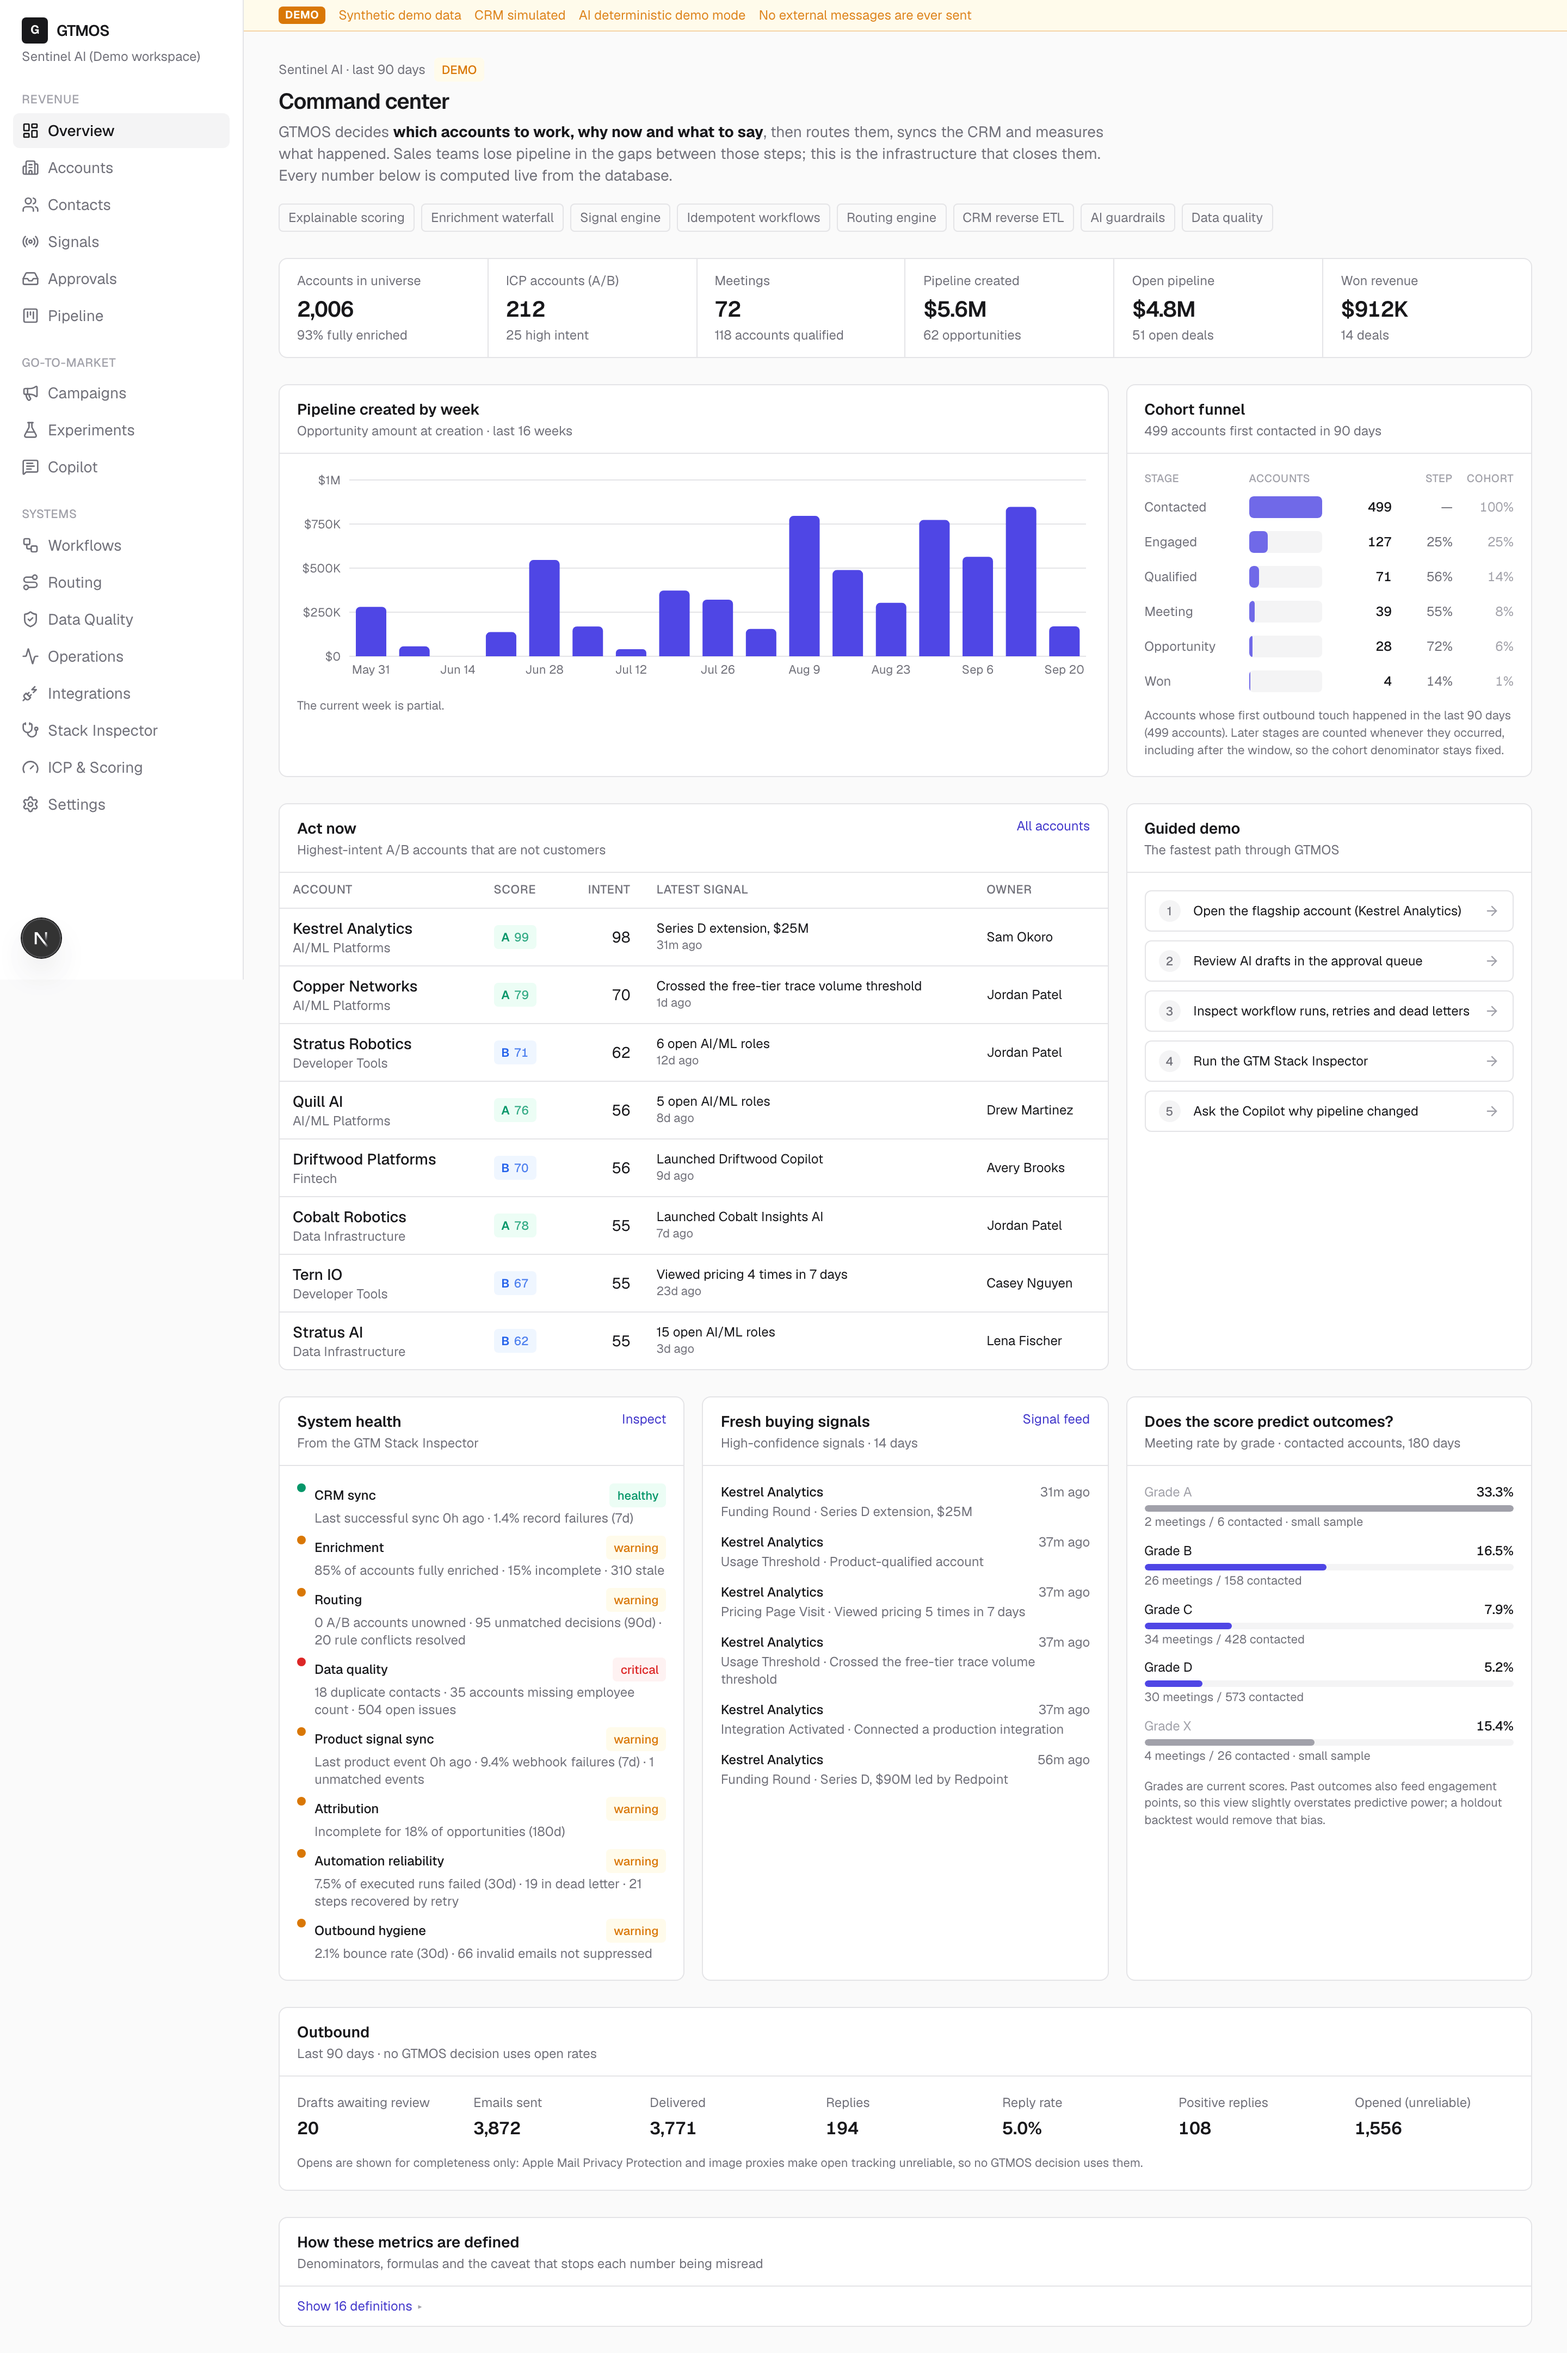
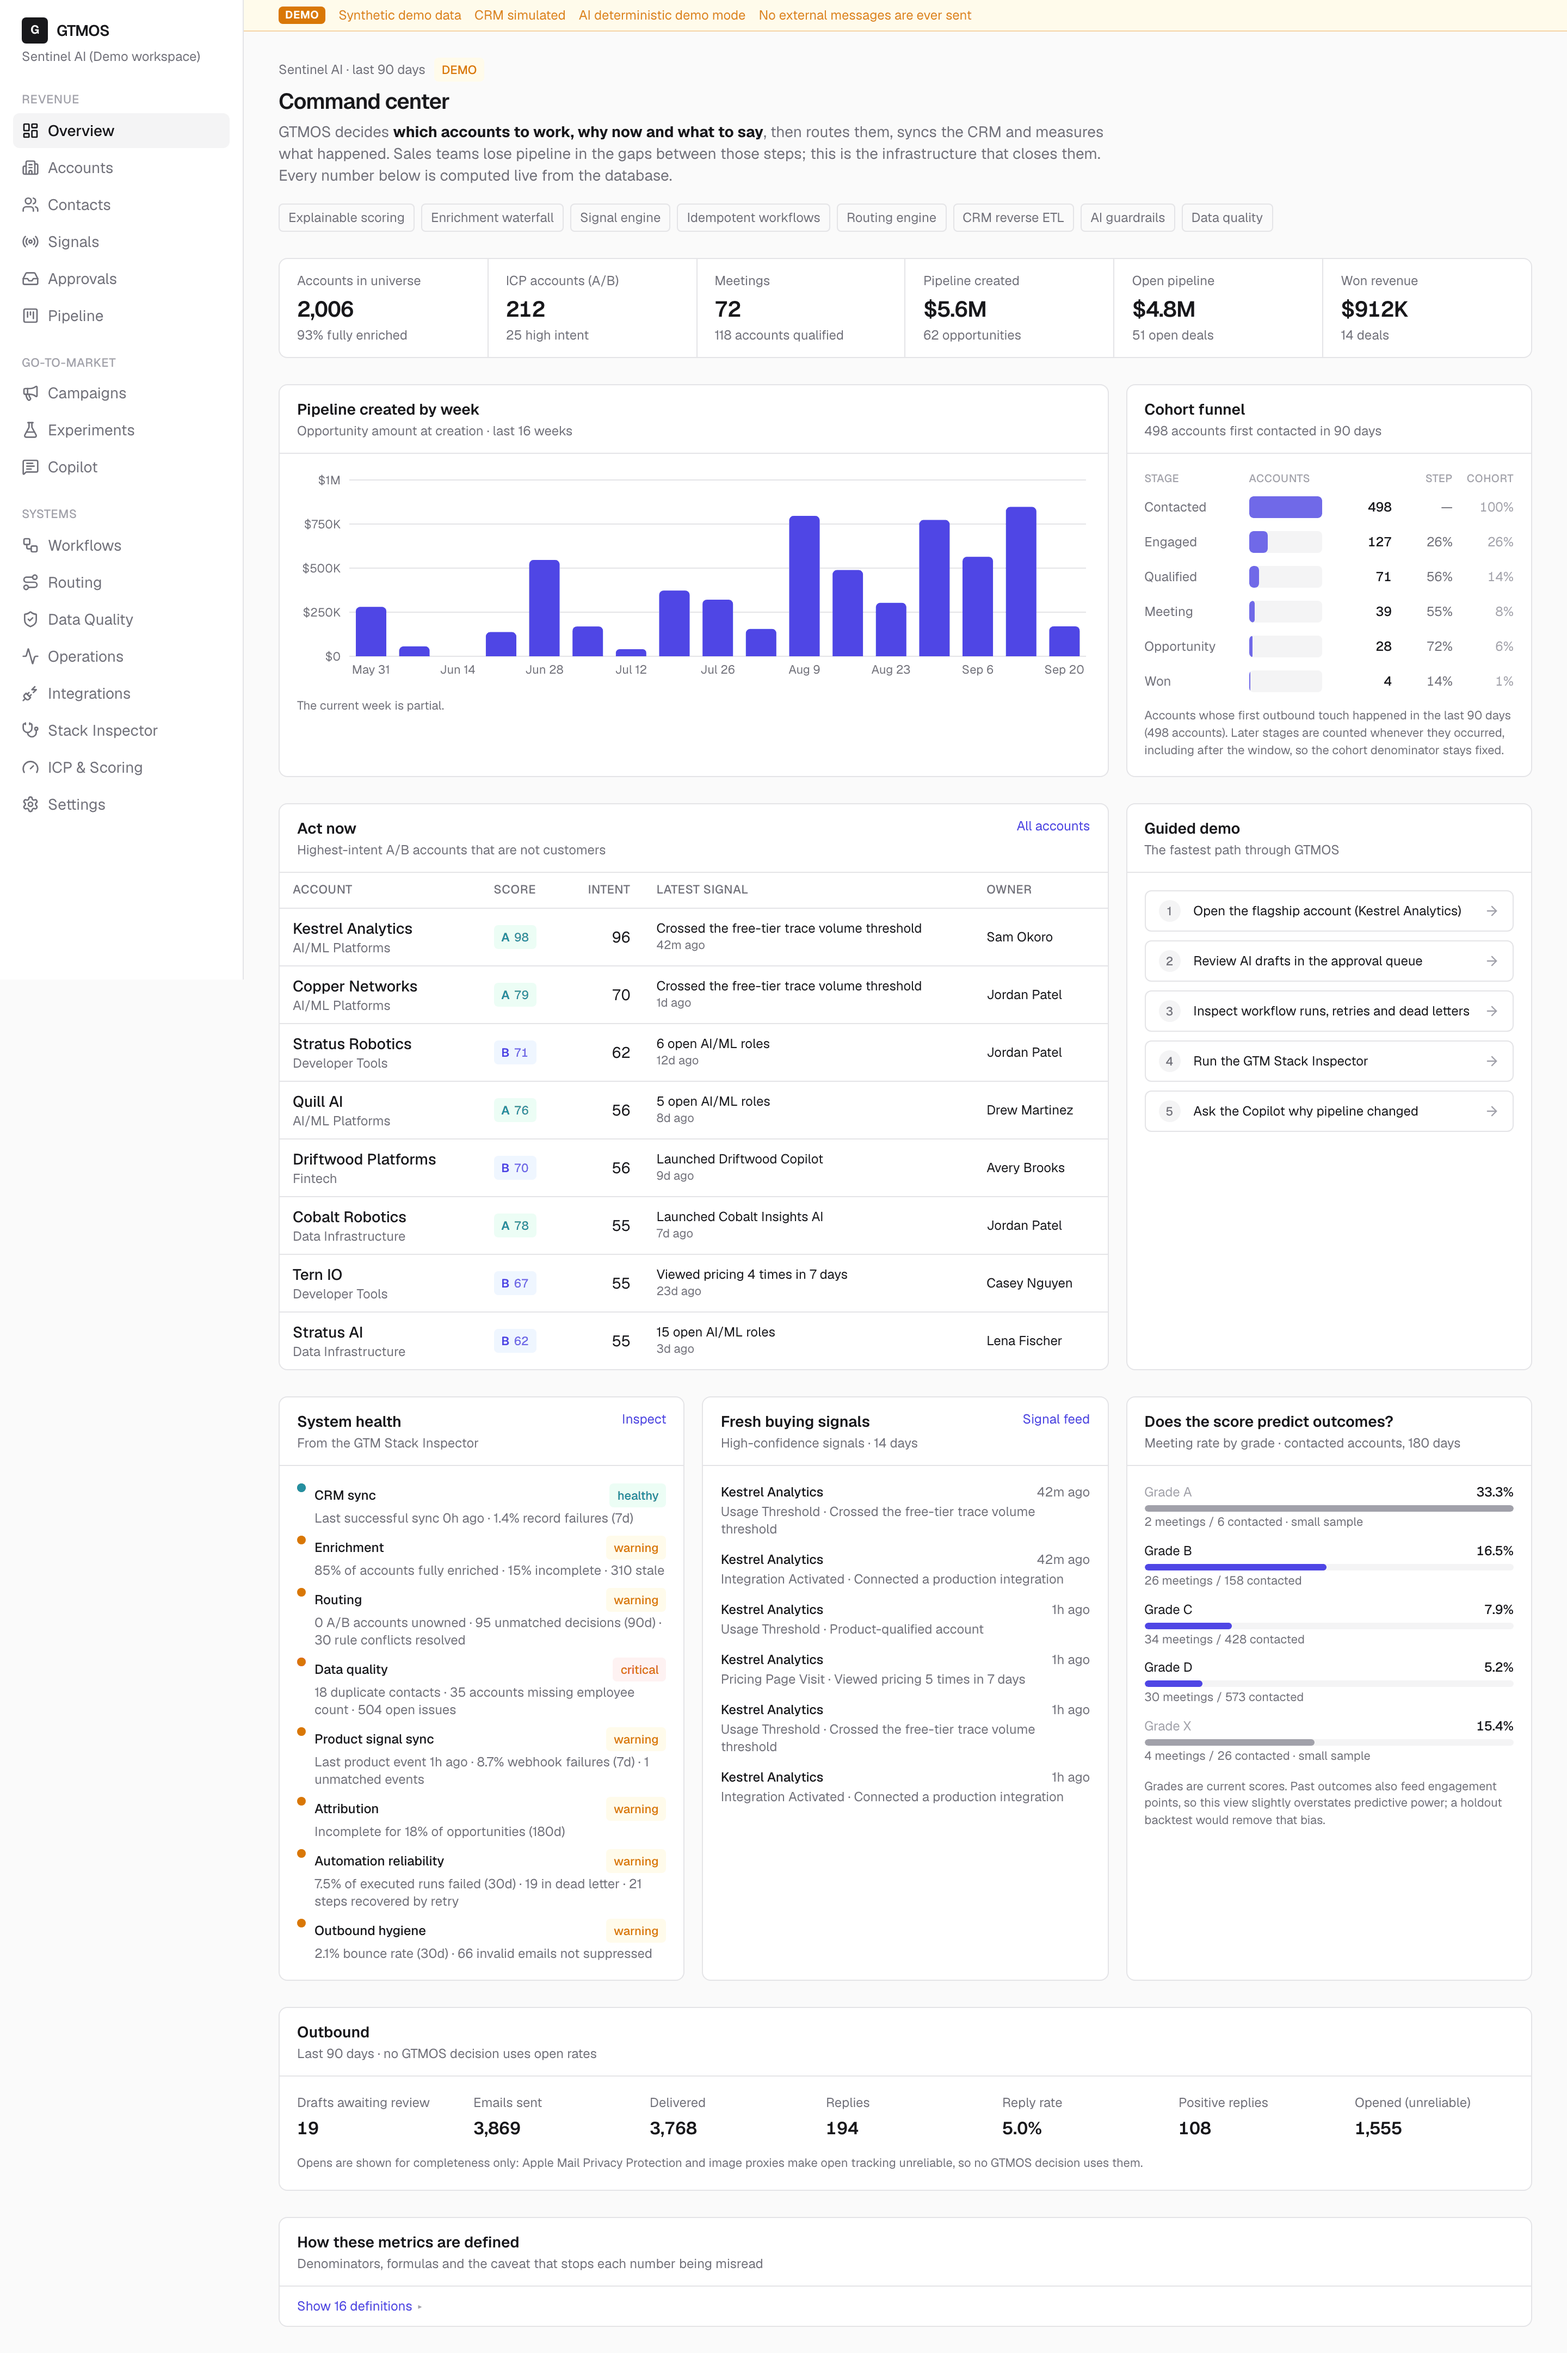
Recapture three screenshots against the cleaned dataset, fix four captions
01-overview and 03-account-kestrel were reshot after the incoherent test
signals were removed and the flagship account rescored; 15-approvals was
stale too, still showing a draft whose cited signal no longer exists.
None of the three contains that text now. The Next.js dev-tools badge
had crept into one capture and is suppressed in the capture script,
which no other shot in the set has.

Caption corrections, each verified against the live API rather than
assumed: the cohort denominator is 498 not 499; the worked half-life
example is 8.8/10 not 8.9; and the pipeline attribution spread tops out
at 96%, not 48% — 48% is a different campaign's row, and 96% is the one
the caption's own worked example is about.

Two other captions quote rolling-window values that have since moved by
one signal and a tenth of a percent. They still match the images they
describe, so they stay, and the intro now says plainly that a caption
records its shot rather than the live app — the numbers that are meant
to hold steady live in demo-numbers.md.

Changed region(s): [[0.4688, 0.6244, 0.625, 0.7805], [0.0, 0.3747, 0.0625, 0.4059], [0.6562, 0.6556, 0.6875, 0.6869]]

diff --git a/docs/screenshots.md b/docs/screenshots.md
@@ -2,13 +2,15 @@
 
 Every screen below is the running app in demo mode against the seeded **synthetic** dataset (2,006 simulated accounts, simulated CRM, deterministic AI; no external message is ever sent). Numbers are computed live from the database, but the underlying data is generated, not a real company's.
 
+Every figure in a caption describes **the shot above it**, not the app as it is running right now. Several of these pages report rolling windows, so a live page will drift from its screenshot by a signal or a tenth of a percent between captures. Where they disagree, the live app is current and the caption is a record of what was captured; the figures that are supposed to hold steady are generated into [`demo-numbers.md`](demo-numbers.md) instead.
+
 Captured at 1440x900, 2x pixel density, light mode. Pages that run past a few screens (accounts, scoring, signals, pipeline, routing, workflows, data quality, stack inspector, operations) were shot in a taller viewport rather than as a full-page ribbon, so the panels that matter stay readable.
 
 ## 1. Overview — command centre
 
 ![GTMOS command centre](screenshots/01-overview.png)
 
-Every headline number carries its denominator (2,006 accounts, 93% fully enriched; $5.6M pipeline created across 62 opportunities), and the cohort funnel fixes its denominator at 499 accounts first contacted in 90 days so later stages cannot be counted against a shrinking base.
+Every headline number carries its denominator (2,006 accounts, 93% fully enriched; $5.6M pipeline created across 62 opportunities), and the cohort funnel fixes its denominator at 498 accounts first contacted in 90 days so later stages cannot be counted against a shrinking base.
 
 ## 2. Accounts
 
@@ -20,7 +22,7 @@ All 2,006 accounts ranked by ICP score, with the five scoring categories (fit, i
 
 ![Flagship account score breakdown](screenshots/03-account-kestrel.png)
 
-The score breakdown traces every point to a named rule with its evidence, confidence, typical strength and half-life decay ("AI/ML hiring surge … 45-day half-life → 89% of 10 pts" = 8.9/10), and the provenance table records the source and confidence of each enriched field.
+The score breakdown traces every point to a named rule with its evidence, confidence, typical strength and half-life decay ("AI/ML hiring surge … 45-day half-life → 89% of 10 pts" = 8.8/10), and the provenance table records the source and confidence of each enriched field.
 
 ## 4. ICP and scoring model
 
@@ -38,7 +40,7 @@ The weights and signal point budgets are editable and versioned, and the "Does t
 
 ![Pipeline and attribution models](screenshots/06-pipeline.png)
 
-Four attribution models are shown side by side across 77 opportunities with the spread between them per campaign (up to 48%), then a worked example — one $320K Solstice Metrics deal where first touch gives a webinar 100% and last touch gives it 0% — plus an explicit note that none of these models is causal.
+Four attribution models are shown side by side across 77 opportunities with the spread between them per campaign (up to 96%), then a worked example — one $320K Solstice Metrics deal where first touch gives a webinar 100% and last touch gives it 0% — plus an explicit note that none of these models is causal.
 
 ## 7. Experiments
 
